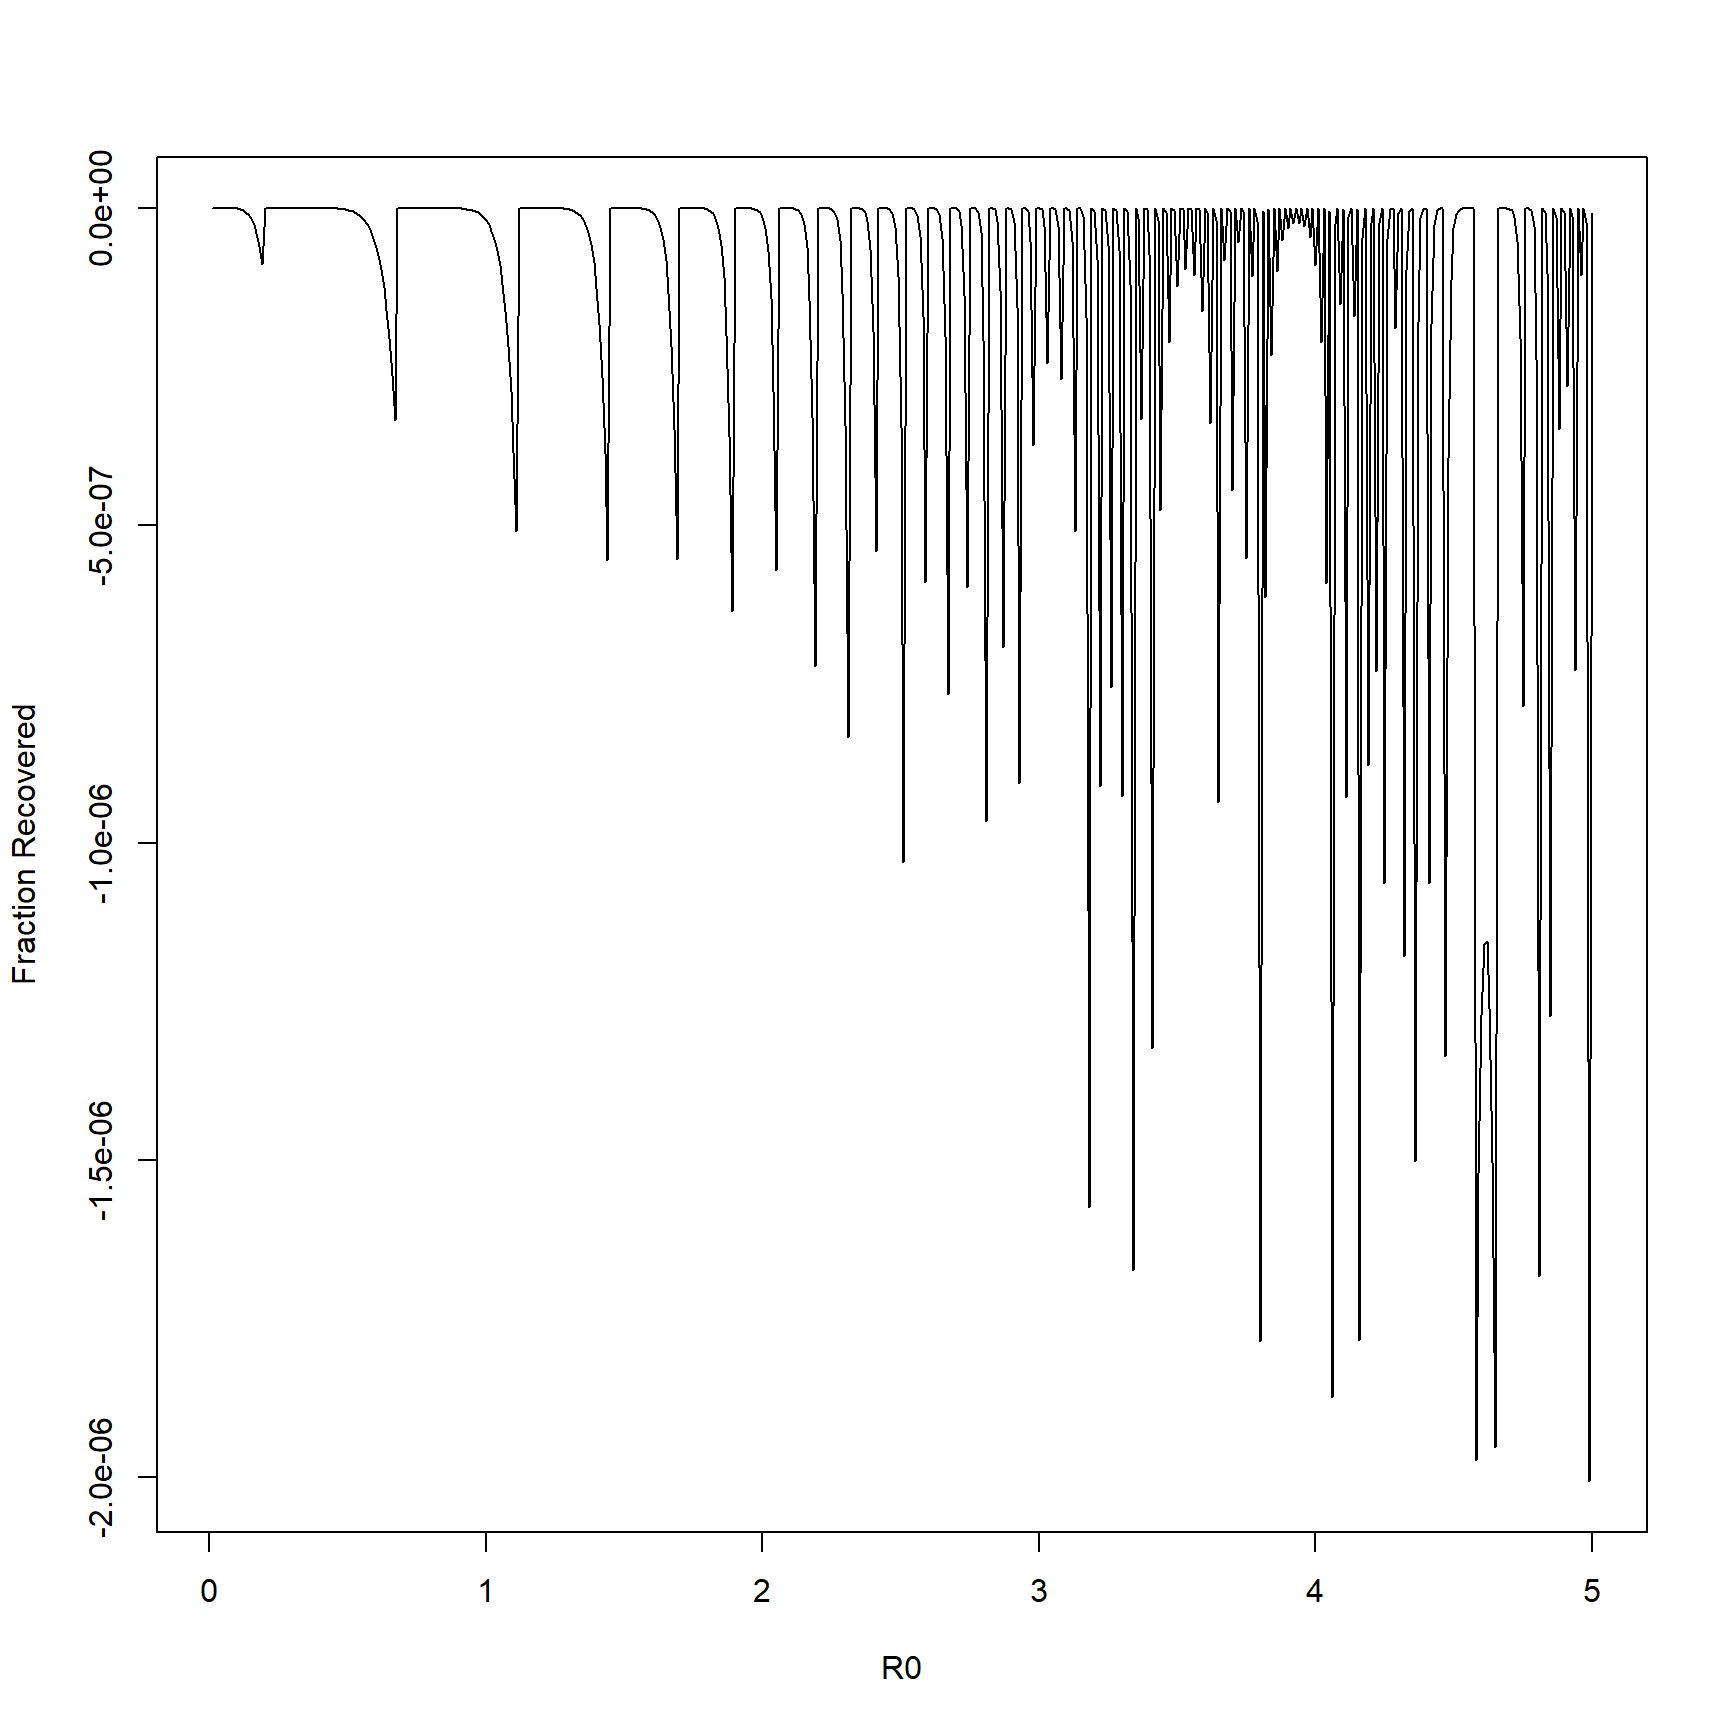
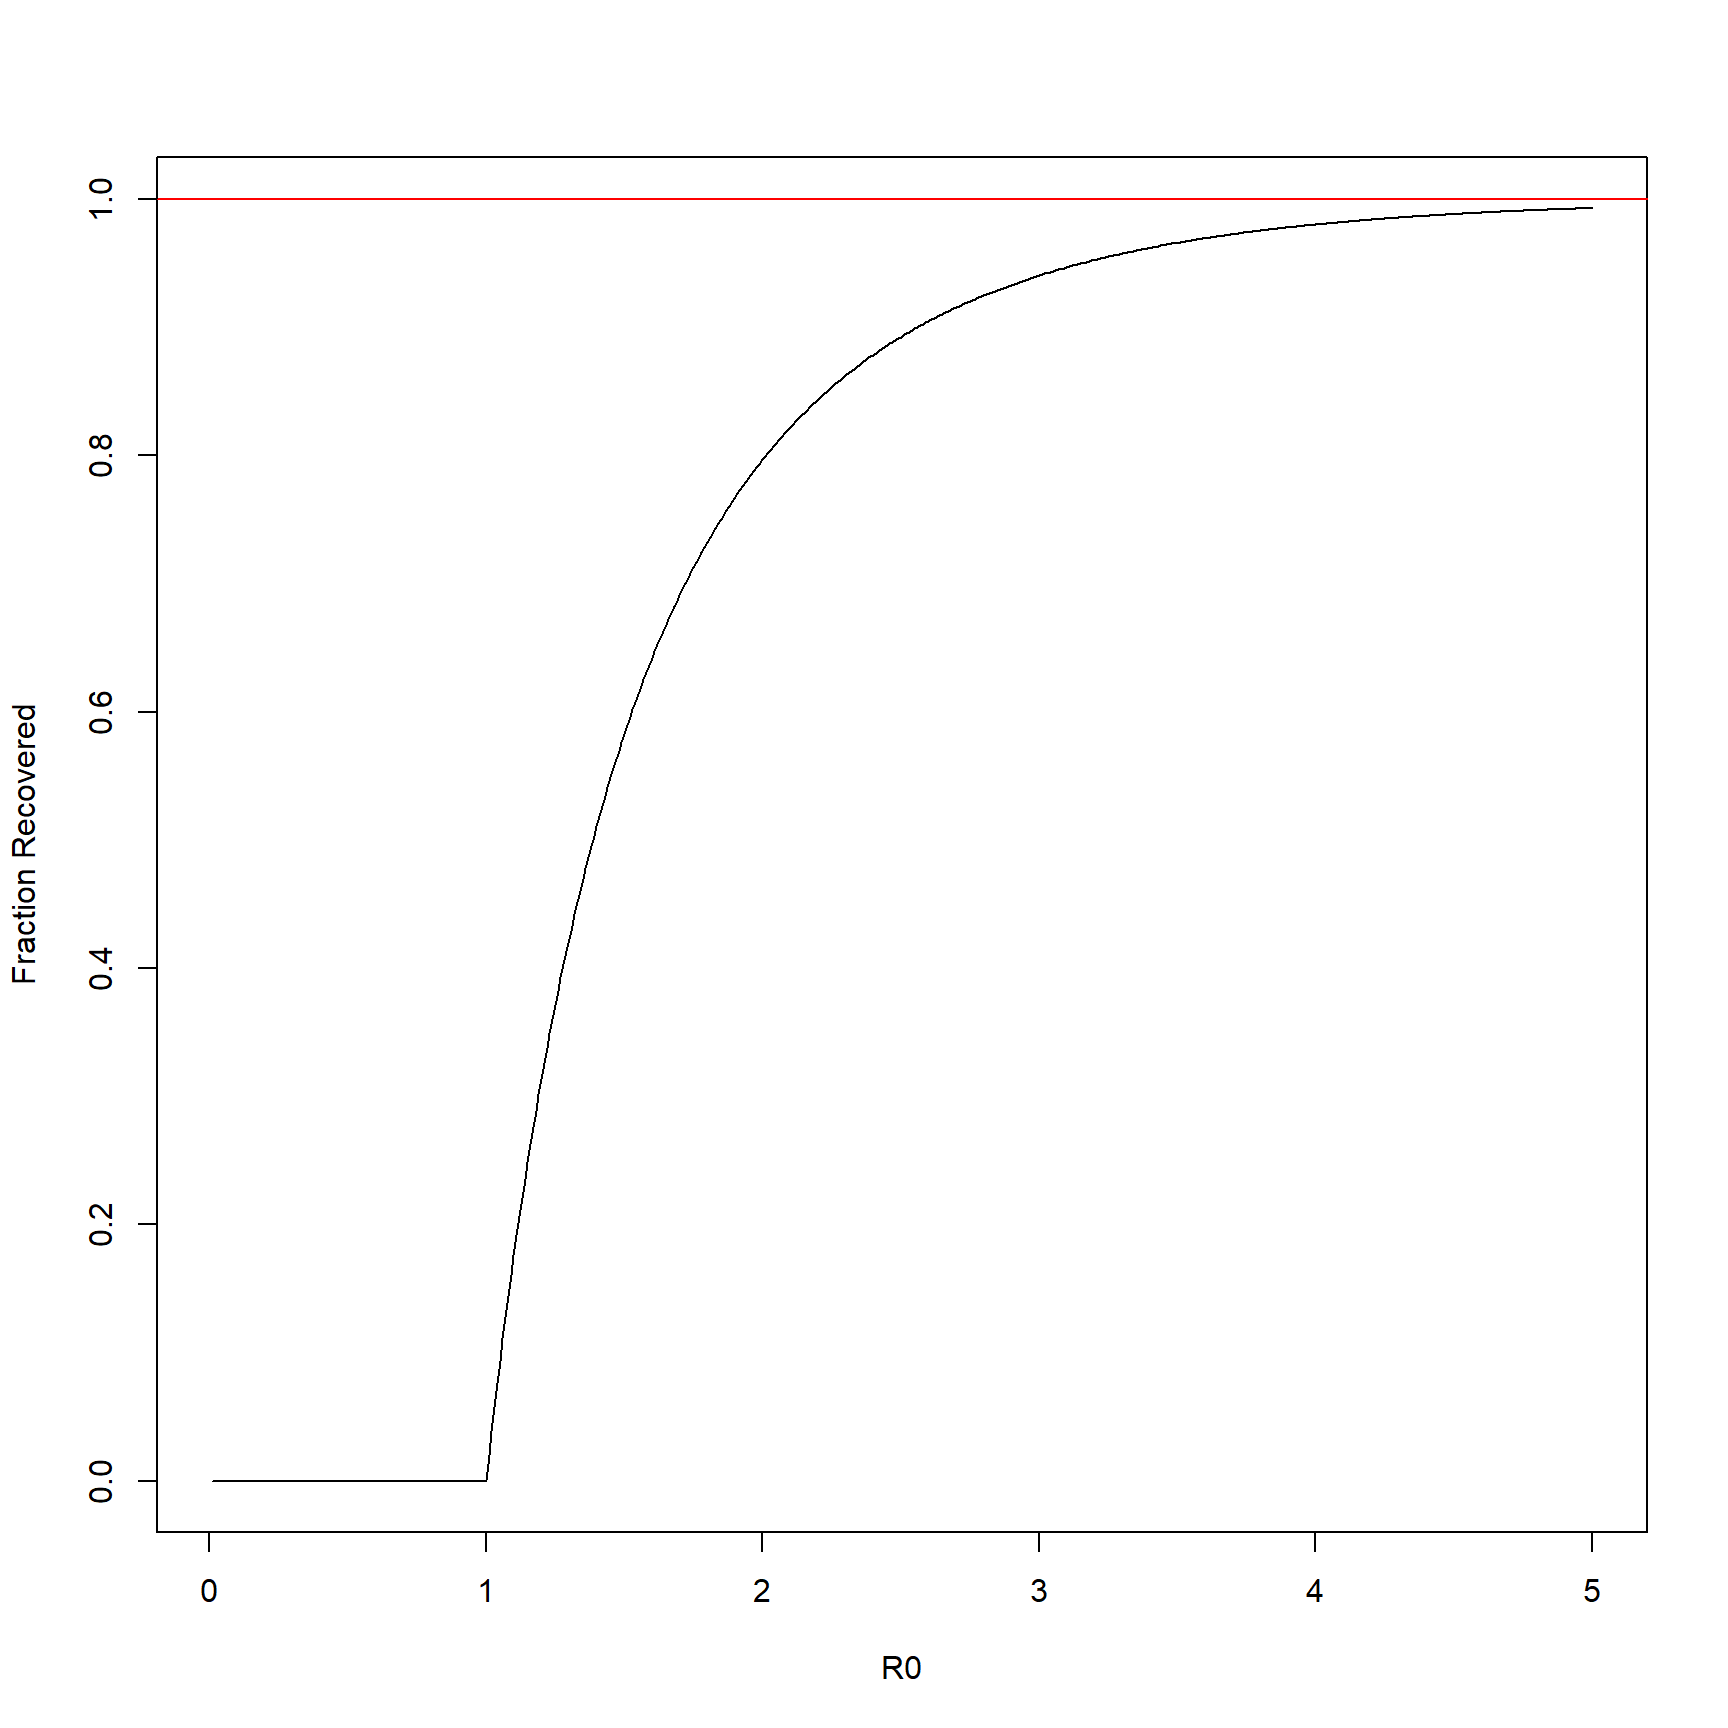
Build site.

diff --git a/docs/Homework4.html b/docs/Homework4.html
@@ -423,7 +423,7 @@ div.tocify {
 <div class="tab-content">
 <div id="summary" class="tab-pane fade in active">
 <p>
-<strong>Last updated:</strong> 2021-02-11
+<strong>Last updated:</strong> 2021-02-16
 </p>
 <p>
 <strong>Checks:</strong> <span class="glyphicon glyphicon-ok text-success" aria-hidden="true"></span> 7 <span class="glyphicon glyphicon-exclamation-sign text-danger" aria-hidden="true"></span> 0
@@ -514,16 +514,16 @@ This reproducible <a href="http://rmarkdown.rstudio.com">R Markdown</a> analysis
 <div class="panel panel-default">
 <div class="panel-heading">
 <p class="panel-title">
-<a data-toggle="collapse" data-parent="#workflowr-checks" href="#strongRepositoryversionstrongahrefhttpsgithubcomKiseokUchicagoTheoreticalecologyHWtree4a95f85eef0b64b2b3b628cc91285bd7164fdd8atargetblank4a95f85a"> <span class="glyphicon glyphicon-ok text-success" aria-hidden="true"></span> <strong>Repository version:</strong> <a href="https://github.com/KiseokUchicago/Theoretical_ecology_HW/tree/4a95f85eef0b64b2b3b628cc91285bd7164fdd8a" target="_blank">4a95f85</a> </a>
+<a data-toggle="collapse" data-parent="#workflowr-checks" href="#strongRepositoryversionstrongahrefhttpsgithubcomKiseokUchicagoTheoreticalecologyHWtree8746855674ec4515d95e780e33a5869e8195a763targetblank8746855a"> <span class="glyphicon glyphicon-ok text-success" aria-hidden="true"></span> <strong>Repository version:</strong> <a href="https://github.com/KiseokUchicago/Theoretical_ecology_HW/tree/8746855674ec4515d95e780e33a5869e8195a763" target="_blank">8746855</a> </a>
 </p>
 </div>
[2 lines of base64/hex data omitted]
 <div class="panel-body">
 <p>
 Great! You are using Git for version control. Tracking code development and connecting the code version to the results is critical for reproducibility.
 </p>
 <p>
-The results in this page were generated with repository version <a href="https://github.com/KiseokUchicago/Theoretical_ecology_HW/tree/4a95f85eef0b64b2b3b628cc91285bd7164fdd8a" target="_blank">4a95f85</a>. See the <em>Past versions</em> tab to see a history of the changes made to the R Markdown and HTML files.
+The results in this page were generated with repository version <a href="https://github.com/KiseokUchicago/Theoretical_ecology_HW/tree/8746855674ec4515d95e780e33a5869e8195a763" target="_blank">8746855</a>. See the <em>Past versions</em> tab to see a history of the changes made to the R Markdown and HTML files.
 </p>
 <p>
 Note that you need to be careful to ensure that all relevant files for the analysis have been committed to Git prior to generating the results (you can use <code>wflow_publish</code> or <code>wflow_git_commit</code>). workflowr only checks the R Markdown file, but you know if there are other scripts or data files that it depends on. Below is the status of the Git repository when the results were generated:
@@ -532,6 +532,12 @@ Note that you need to be careful to ensure that all relevant files for the analy
 Ignored files:
     Ignored:    .Rhistory
     Ignored:    .Rproj.user/
+
+Untracked files:
+    Untracked:  analysis/Homework5.Rmd
+
+Unstaged changes:
+    Modified:   analysis/index.Rmd
 
 </code></pre>
 <p>
@@ -570,6 +576,40 @@ Message
 </tr>
 </thead>
 <tbody>
+<tr>
+<td>
+Rmd
+</td>
+<td>
+<a href="https://github.com/KiseokUchicago/Theoretical_ecology_HW/blob/8746855674ec4515d95e780e33a5869e8195a763/analysis/Homework4.Rmd" target="_blank">8746855</a>
+</td>
+<td>
+KiseokUChicago
+</td>
+<td>
+2021-02-16
+</td>
+<td>
+updated exercise 1
+</td>
+</tr>
+<tr>
+<td>
+html
+</td>
+<td>
+<a href="https://rawcdn.githack.com/KiseokUchicago/Theoretical_ecology_HW/b64c9f61a0952ed570e02d87809d2b961613ee4b/docs/Homework4.html" target="_blank">b64c9f6</a>
+</td>
+<td>
+KiseokUChicago
+</td>
+<td>
+2021-02-11
+</td>
+<td>
+Build site.
+</td>
+</tr>
 <tr>
 <td>
 Rmd
@@ -740,17 +780,14 @@ Student: <strong>Kiseok Lee</strong></p>
 <div id="exercise-1.-approximating-epidemic-sizes-using-newtons-method." class="section level3">
 <h3>Exercise 1. Approximating epidemic sizes using Newton’s method.</h3>
 <ol style="list-style-type: decimal">
-<li>Use the templates to plot the fraction of recovered population R(infinity) as a function of R0. Values for R0 change from disease to disease and from host population to host population. For example, estimates for influenza are R0 = [1.2, 3]; for rubella, we have R0 = [6, 7]; and for measles, R0 = [16, 18].</li>
-<li>What fraction of a completely susceptible population will be infected by measles? rubella? influenza? Change the code above to compute the values.</li>
-<li>Please also plot the herd immunity threshold on the same graph. The curves differ.</li>
-<li>Please explain the implications for managing pandemics.</li>
+<li>Use the templates to plot the fraction of recovered population R(infinity) as a function of R0. Values for R0 change from disease to disease and from host population to host population.</li>
 </ol>
 <pre class="r"><code>## This is for SIR model
 Funct&lt;-function(x,R0){
-    return(1-exp(-R0*x))
+    return(1-exp(-R0*x)-x)
 }
 DeriFunct&lt;-function(x,R0){
-    return(R0*exp(-R0*x))
+    return(R0*exp(-R0*x)-1)
 }
 
 ## Prototype example of the method
@@ -767,13 +804,13 @@ print(abs(xn-xnp1)&gt;Eps)</code></pre>
     print(xnp1)
 }</code></pre>
 <pre><code>[1] TRUE
-[1] -0.2974425
+[1] 0.1294668
 [1] TRUE
-[1] -0.02106113
+[1] 0.003777128
 [1] TRUE
-[1] -0.0001105045
+[1] 3.555478e-06
 [1] FALSE
-[1] -3.052757e-09</code></pre>
+[1] 3.160454e-12</code></pre>
 <pre class="r"><code>## Implementation to plot fraction recovered
 RInf&lt;-function(R0,Funct,DeriFunct){
     xn&lt;-1000000 # a very large number
@@ -802,6 +839,74 @@ for (i in 1:length(R0s)){
 plot(RecFracs~R0s,t=&quot;l&quot;,xlab=&quot;R0&quot;,ylab=&quot;Fraction Recovered&quot;)
 abline(h=1,col=&quot;red&quot;)</code></pre>
 <p><img src="figure/Homework4.Rmd/unnamed-chunk-1-1.png" width="864" style="display: block; margin: auto;" /></p>
+<ol start="2" style="list-style-type: decimal">
+<li>What fraction of a completely susceptible population will be infected by measles? rubella? influenza? Change the code above to compute the values. For example, estimates for influenza are R0 = [1.2, 3]; for rubella, we have R0 = [6, 7]; and for measles, R0 = [16, 18].</li>
+</ol>
+<pre class="r"><code># influenza
+R0s&lt;-seq(0,3,length.out=500)
+RecFracs&lt;-rep(0,500)
+for (i in 1:length(R0s)){
+  # print(i)
+  # print(paste0(&#39;RO is &#39;,R0s[i]))
+  RecFracs[i]&lt;-RInf(R0s[i],Funct,DeriFunct)
+}
+plot(RecFracs~R0s,t=&quot;l&quot;,xlab=&quot;R0&quot;,ylab=&quot;Fraction Recovered&quot;, ylim=c(0,1),
+     main=&#39;Influenza&#39;)
+abline(h=1,col=&quot;red&quot;)
+
+
+# calculating R for herd immunity threshold
+R0 &lt;- 1.2
+R &lt;- log(1/R0)/(-R0)
+abline(h=R, col=&#39;blue&#39;)</code></pre>
+<p><img src="figure/Homework4.Rmd/unnamed-chunk-2-1.png" width="864" style="display: block; margin: auto;" /></p>
+<pre class="r"><code># rubella; R0 = [6, 7]
+R0s&lt;-seq(0,7,length.out=500)
+RecFracs&lt;-rep(0,500)
+for (i in 1:length(R0s)){
+  # print(i)
+  # print(paste0(&#39;RO is &#39;,R0s[i]))
+  RecFracs[i]&lt;-RInf(R0s[i],Funct,DeriFunct)
+}
+plot(RecFracs~R0s,t=&quot;l&quot;,xlab=&quot;R0&quot;,ylab=&quot;Fraction Recovered&quot;, ylim=c(0,1),
+     main=&#39;Rubella&#39;)
+abline(h=1,col=&quot;red&quot;)
+
+# calculating R for herd immunity threshold
+R0 &lt;- 6
+R &lt;- log(1/R0)/(-R0)
+abline(h=R, col=&#39;blue&#39;)</code></pre>
+<p><img src="figure/Homework4.Rmd/unnamed-chunk-2-2.png" width="864" style="display: block; margin: auto;" /></p>
+<pre class="r"><code># measles; R0 = [16, 18]
+R0s&lt;-seq(0,18,length.out=500)
+RecFracs&lt;-rep(0,500)
+for (i in 1:length(R0s)){
+  # print(i)
+  # print(paste0(&#39;RO is &#39;,R0s[i]))
+  RecFracs[i]&lt;-RInf(R0s[i],Funct,DeriFunct)
+}
+plot(RecFracs~R0s,t=&quot;l&quot;,xlab=&quot;R0&quot;,ylab=&quot;Fraction Recovered&quot;, ylim=c(0,1),
+     main=&#39;Measles&#39;)
+abline(h=1,col=&quot;red&quot;)
+
+# calculating R for herd immunity threshold
+R0 &lt;- 16
+R &lt;- log(1/R0)/(-R0)
+abline(h=R, col=&#39;blue&#39;)</code></pre>
+<p><img src="figure/Homework4.Rmd/unnamed-chunk-2-3.png" width="864" style="display: block; margin: auto;" /></p>
+<ol start="3" style="list-style-type: decimal">
+<li>Please also plot the herd immunity threshold on the same graph. The curves differ.</li>
+</ol>
+<p>The herd immunity threshold is when dI/dt is 0. This happens when S<em>=1/R0.<br />
+S=exp(-R0 </em> R)<br />
+lnS=-R0*R<br />
+R=1ns/(-R0)=ln(1/R0)/(-R0)<br />
+These threshold are plotted blue on the graph above.</p>
+<ol start="4" style="list-style-type: decimal">
+<li>Please explain the implications for managing pandemics.<br />
+</li>
+</ol>
+<p>This implies the threshold of how many people should be vaccinated in order to deter the spread (dI/dt=0)</p>
 </div>
 <div id="excercise-2.-visualizing-epidemic-dynamics" class="section level3">
 <h3>Excercise 2. Visualizing epidemic dynamics</h3>
@@ -852,7 +957,7 @@ points(out_I$t, out_I$I, type=&#39;l&#39;, col = &quot;red&quot;, cex = 0.5)
 # legend
 legend(27,0.9,legend=c(&quot;R&quot;, &quot;S&quot;,&quot;I&quot;),
        col=c(&quot;blue&quot;, &quot;black&quot;,&#39;red&#39;), lty=1, cex=0.8)</code></pre>
-<p><img src="figure/Homework4.Rmd/unnamed-chunk-2-1.png" width="864" style="display: block; margin: auto;" /></p>
+<p><img src="figure/Homework4.Rmd/unnamed-chunk-3-1.png" width="864" style="display: block; margin: auto;" /></p>
 </div>
 <div id="converting-y-axis-into-number-of-people" class="section level4">
 <h4>Converting y axis into number of people</h4>
@@ -872,7 +977,7 @@ points(out_SIR$t, out_SIR$n_I, type=&#39;l&#39;, col = &quot;red&quot;, cex = 0.
 # legend
 legend(27,N-10000,legend=c(&quot;R&quot;, &quot;S&quot;,&quot;I&quot;),
        col=c(&quot;blue&quot;, &quot;black&quot;,&#39;red&#39;), lty=1, cex=0.8)</code></pre>
-<p><img src="figure/Homework4.Rmd/unnamed-chunk-3-1.png" width="864" style="display: block; margin: auto;" /></p>
+<p><img src="figure/Homework4.Rmd/unnamed-chunk-4-1.png" width="864" style="display: block; margin: auto;" /></p>
 <pre class="r"><code># people recovered in day 5 and 10
 out_SIR %&gt;% filter(time %in% c(5,10)) %&gt;% select(time,n_R)</code></pre>
 <pre><code>  time      n_R
@@ -907,7 +1012,7 @@ points(out_I$t, out_I$I, type=&#39;l&#39;, col = &quot;red&quot;, cex = 0.5)
 # legend
 legend(25,0.9,legend=c(&quot;R_euler&quot;, &quot;S_euler&quot;,&quot;I_euler&quot;,&quot;R_rk4&quot;, &quot;S_rk4&quot;,&quot;I_rk4&quot; ),
        col=c(&quot;blue&quot;, &quot;black&quot;,&#39;red&#39;), lty=c(3,3,3, 1,1,1), cex=0.8)</code></pre>
-<p><img src="figure/Homework4.Rmd/unnamed-chunk-4-1.png" width="864" style="display: block; margin: auto;" /> Euler method and Runge-Kutta 4th order method has some difference in their estimates. Runge-Kutta 4th order method is proved to be more accurate than the Euler method.</p>
+<p><img src="figure/Homework4.Rmd/unnamed-chunk-5-1.png" width="864" style="display: block; margin: auto;" /> Euler method and Runge-Kutta 4th order method has some difference in their estimates. Runge-Kutta 4th order method is proved to be more accurate than the Euler method.</p>
 <br>
 <p>
 <button type="button" class="btn btn-default btn-workflowr btn-workflowr-sessioninfo" data-toggle="collapse" data-target="#workflowr-sessioninfo" style="display: block;">
